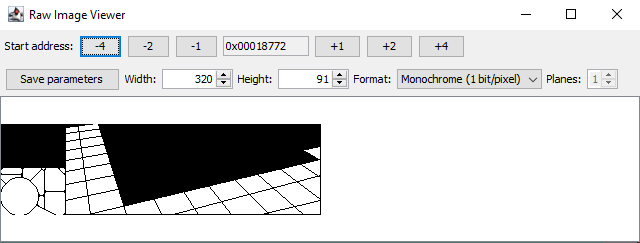
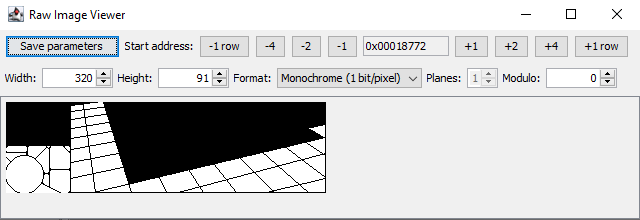
goto and modulo added

diff --git a/RawImageViewer.java b/RawImageViewer.java
@@ -13,7 +13,7 @@ import ghidra.program.model.mem.Memory;
 import javax.swing.*;
 import javax.swing.event.ChangeEvent;
 import java.awt.*;
-import java.awt.event.ActionEvent;
+import java.awt.event.*;
 import java.awt.image.BufferedImage;
 import java.util.List;
 import java.util.Arrays;
@@ -31,17 +31,28 @@ public class RawImageViewer extends GhidraScript {
     
     private static final String paramHeader = "$RAWIMAGE (do not modify or add comment after this line),";
     
+    private static JButton createSmallButton(String text) {
+        JButton button = new JButton(text);
+        Insets insets = button.getMargin();
+        button.setMargin(new Insets(insets.top, 8, insets.bottom, 8));
+        return button;
+    }
+    
+    
     private JLabel imageComp;
     private JTextField addressComp;
     private JSpinner planesComp;
     private Address start;
-    private int width, height, format, numPlanes;
+    private int width, height, format, numPlanes, modulo;
+    private int bytesPerRow;
+    private int clickedX, clickedY;
 
     private void setDefaultParameters() {
-        width = 16;
-        height = 16;
+        width = 320;
+        height = 200;
         format = 0;
         numPlanes = 1;
+        modulo = 0;
     }
 
     // loads the image parameters from the pre-comment.
@@ -63,11 +74,19 @@ public class RawImageViewer extends GhidraScript {
             int height = Integer.parseInt(params[2]);
             int format = Integer.parseInt(params[3]);
             int numPlanes = Integer.parseInt(params[4]);
-            if(width<0 || width>10000 || height<0 || height>10000
-                || format<0 || format>=formats.length || numPlanes<1 || numPlanes>8) {
+            int modulo = Integer.parseInt(params[5]);
+            if(width<0 || width>10000
+                || height<0 || height>10000
+                || format<0 || format>=formats.length
+                || numPlanes<1 || numPlanes>8
+                || modulo<0 || modulo>10000) {
                     throw new IllegalArgumentException();
             }
-            this.width = width; this.height = height; this.format = format; this.numPlanes = numPlanes;
+            this.width = width;
+            this.height = height;
+            this.format = format;
+            this.numPlanes = numPlanes;
+            this.modulo = modulo;
             return true;
         }
         catch (Exception e) {
@@ -77,7 +96,7 @@ public class RawImageViewer extends GhidraScript {
     
     // stores the image parameters in the pre-comment
     private void storeParametersInComment() {
-        String params = paramHeader + width + "," + height + "," + format + "," + numPlanes;
+        String params = paramHeader + width + "," + height + "," + format + "," + numPlanes + "," + modulo;
         String comment = getPreComment(start);
         if (comment == null) {
             comment = params;
@@ -115,31 +134,32 @@ public class RawImageViewer extends GhidraScript {
             switch(format) {
             case 0 -> {
                 // 1-bit monochrome (8 pixels per byte, MSB-first)
-                byte[] data = new byte[(int) Math.ceil((width * height) / 8.0)];
+                bytesPerRow = (width + 7) / 8 + modulo;                
+                byte[] data = new byte[bytesPerRow*height];
                 mem.getBytes(start, data);
+                
                 img = new BufferedImage(width, height, BufferedImage.TYPE_BYTE_BINARY);
                 for (int y = 0; y < height; y++) {
                     for (int x = 0; x < width; x++) {
-                        int byteIndex = (y * ((width + 7) / 8)) + (x / 8);
+                        int byteIndex = y * bytesPerRow + x / 8;
                         int bitIndex = 7 - (x % 8);
-                        if (byteIndex < data.length) {
-                            int bit = (data[byteIndex] >> bitIndex) & 1;
-                            int color = bit == 1 ? 0xFFFFFF : 0x000000;
-                            img.setRGB(x, y, color);
-                        }
+                        int bit = (data[byteIndex] >> bitIndex) & 1;
+                        int color = bit == 1 ? 0xFFFFFF : 0x000000;
+                        img.setRGB(x, y, color);
                     }
                 }
             }
             case 1 -> {
                 // 8-bit grayscale
-                byte[] data = new byte[width*height];
+                bytesPerRow = width + modulo;
+                byte[] data = new byte[bytesPerRow * height];
                 mem.getBytes(start, data);
-                img = new BufferedImage(width, height, BufferedImage.TYPE_BYTE_GRAY);
                 
-                int i = 0;
+                img = new BufferedImage(width, height, BufferedImage.TYPE_BYTE_GRAY);                
                 for (int y = 0; y < height; y++) {
-                    for (int x = 0; x < width && i < data.length; x++) {
-                        int val = data[i++] & 0xFF;
+                    for (int x = 0; x < width; x++) {
+                        int byteIndex = y * bytesPerRow + x;
+                        int val = data[byteIndex] & 0xFF;
                         int rgb = (val << 16) | (val << 8) | val;
                         img.setRGB(x, y, rgb);
                     }
@@ -147,16 +167,17 @@ public class RawImageViewer extends GhidraScript {
             }
             case 2 -> {
                 // 24-bit RGB
-                byte[] data = new byte[width*height*3];
+                bytesPerRow = width * 3 + modulo;
+                byte[] data = new byte[bytesPerRow * height];
                 mem.getBytes(start, data);
-                img = new BufferedImage(width, height, BufferedImage.TYPE_INT_RGB);
                 
-                int i = 0;
+                img = new BufferedImage(width, height, BufferedImage.TYPE_INT_RGB);           
                 for (int y = 0; y < height; y++) {
-                    for (int x = 0; x < width && i + 2 < data.length; x++) {
-                        int r = data[i++] & 0xFF;
-                        int g = data[i++] & 0xFF;
-                        int b = data[i++] & 0xFF;
+                    for (int x = 0; x < width; x++) {
+                        int byteIndex = y * bytesPerRow + x * 3;
+                        int r = data[byteIndex] & 0xFF;
+                        int g = data[byteIndex+1] & 0xFF;
+                        int b = data[byteIndex+2] & 0xFF;
                         int rgb = (r << 16) | (g << 8) | b;
                         img.setRGB(x, y, rgb);
                     }
@@ -164,17 +185,18 @@ public class RawImageViewer extends GhidraScript {
             }
             case 3 -> {
                 // 32-bit RGBA
-                byte[] data = new byte[width*height*4];
+                bytesPerRow = width * 4 + modulo;
+                byte[] data = new byte[bytesPerRow * height];
                 mem.getBytes(start, data);
-                img = new BufferedImage(width, height, BufferedImage.TYPE_INT_ARGB);
                 
-                int i = 0;
+                img = new BufferedImage(width, height, BufferedImage.TYPE_INT_ARGB);
                 for (int y = 0; y < height; y++) {
-                    for (int x = 0; x < width && i + 3 < data.length; x++) {
-                        int r = data[i++] & 0xFF;
-                        int g = data[i++] & 0xFF;
-                        int b = data[i++] & 0xFF;
-                        int a = data[i++] & 0xFF;
+                    for (int x = 0; x < width; x++) {
+                        int byteIndex = y * bytesPerRow + x * 4;
+                        int r = data[byteIndex] & 0xFF;
+                        int g = data[byteIndex+1] & 0xFF;
+                        int b = data[byteIndex+2] & 0xFF;
+                        int a = data[byteIndex+3] & 0xFF;
                         int rgba = (a << 24) | (r << 16) | (g << 8) | b;
                         img.setRGB(x, y, rgba);
                     }
@@ -182,10 +204,9 @@ public class RawImageViewer extends GhidraScript {
             }
             case 4 -> {
                 // Bitplane mode
-                int bytesPerPlane = (int) Math.ceil((width * height) / 8.0);
-                byte[] data = new byte[numPlanes * bytesPerPlane];
-                mem.getBytes(start, data);
-                img = new BufferedImage(width, height, BufferedImage.TYPE_INT_RGB);
+                bytesPerRow = (width + 7) / 8 + modulo;
+                byte[] data = new byte[bytesPerRow * height * numPlanes];
+                mem.getBytes(start, data);                
                 
                 // make a grayscale palette
                 int numColors = 1 << numPlanes;
@@ -195,13 +216,14 @@ public class RawImageViewer extends GhidraScript {
                     palette[i] = (val << 16) | (val << 8) | val;
                 }
                 
+                img = new BufferedImage(width, height, BufferedImage.TYPE_INT_RGB);
                 for (int y = 0; y < height; y++) {
                     for (int x = 0; x < width; x++) {
-                        int bitIndex = 7 - (x % 8);
-                        int byteOffset = (y * (width / 8)) + (x / 8);
+                        int byteOffset = y * bytesPerRow + x / 8;
+                        int bitIndex = 7 - (x % 8);                        
                         int colorIndex = 0;
                         for (int p = 0; p < numPlanes; p++) {
-                            int planeByteIndex = byteOffset + p * bytesPerPlane;
+                            int planeByteIndex = byteOffset + p * bytesPerRow * height;
                             int bit = (data[planeByteIndex] >> bitIndex) & 1;
                             colorIndex |= (bit << p);
                         }
@@ -230,7 +252,7 @@ public class RawImageViewer extends GhidraScript {
         
         if(!loadParametersFromComment()) {
             setDefaultParameters();
-        }
+        }       
         
         // Image window
         JFrame frame = new JFrame("Raw Image Viewer");
@@ -242,17 +264,27 @@ public class RawImageViewer extends GhidraScript {
         toolPanel1.setLayout(new FlowLayout(FlowLayout.LEFT));
         toolPanel.add(toolPanel1);
         
+        // save button
+        JButton saveButton = new JButton("Save parameters");
+        saveButton.addActionListener((ActionEvent e)->{
+            storeParametersInComment();
+        });
+        toolPanel1.add(saveButton);
+        
+        // the address buttons
+        
         toolPanel1.add(new JLabel("Start address:"));
         
-        ((JButton)(toolPanel1.add(new JButton("-4")))).addActionListener((ActionEvent e)->{
+        ((JButton)(toolPanel1.add(createSmallButton("-1 row")))).addActionListener((ActionEvent e)->{
+            setStartAddress(-bytesPerRow);
+        });
+        ((JButton)(toolPanel1.add(createSmallButton("-4")))).addActionListener((ActionEvent e)->{
             setStartAddress(-4);
         });
-        
-        ((JButton)(toolPanel1.add(new JButton("-2")))).addActionListener((ActionEvent e)->{
+        ((JButton)(toolPanel1.add(createSmallButton("-2")))).addActionListener((ActionEvent e)->{
             setStartAddress(-2);
         });
-        
-        ((JButton)(toolPanel1.add(new JButton("-1")))).addActionListener((ActionEvent e)->{
+        ((JButton)(toolPanel1.add(createSmallButton("-1")))).addActionListener((ActionEvent e)->{
             setStartAddress(-1);
         });
         
@@ -260,28 +292,22 @@ public class RawImageViewer extends GhidraScript {
         addressComp.setEditable(false);
         toolPanel1.add(addressComp);
         
-        ((JButton)(toolPanel1.add(new JButton("+1")))).addActionListener((ActionEvent e)->{
+        ((JButton)(toolPanel1.add(createSmallButton("+1")))).addActionListener((ActionEvent e)->{
             setStartAddress(1);
         });
-        
-        ((JButton)(toolPanel1.add(new JButton("+2")))).addActionListener((ActionEvent e)->{
+        ((JButton)(toolPanel1.add(createSmallButton("+2")))).addActionListener((ActionEvent e)->{
             setStartAddress(2);
         });
-        
-        ((JButton)(toolPanel1.add(new JButton("+4")))).addActionListener((ActionEvent e)->{
+        ((JButton)(toolPanel1.add(createSmallButton("+4")))).addActionListener((ActionEvent e)->{
             setStartAddress(4);
+        });
+        ((JButton)(toolPanel1.add(createSmallButton("+1 row")))).addActionListener((ActionEvent e)->{
+            setStartAddress(bytesPerRow);
         });
 
         JPanel toolPanel2 = new JPanel();
         toolPanel2.setLayout(new FlowLayout(FlowLayout.LEFT));
-        toolPanel.add(toolPanel2);
-        
-        // save button
-        JButton saveButton = new JButton("Save parameters");
-        saveButton.addActionListener((ActionEvent e)->{
-            storeParametersInComment();
-        });
-        toolPanel2.add(saveButton);
+        toolPanel.add(toolPanel2);       
         
         // width input field
         toolPanel2.add(new JLabel("Width:"));
@@ -326,10 +352,43 @@ public class RawImageViewer extends GhidraScript {
         planesComp.setEnabled(format==4);
         toolPanel2.add(planesComp);
         
+        // modulo input field
+        toolPanel2.add(new JLabel("Modulo:"));
+        SpinnerNumberModel moduloModel = new SpinnerNumberModel(modulo, 0, 10000, 1);
+        JSpinner moduloComp = new JSpinner(moduloModel);
+        moduloComp.addChangeListener((ChangeEvent e)->{
+            modulo = (int) moduloComp.getValue();
+            onImageChange();
+        });
+        toolPanel2.add(moduloComp);
+        
         frame.getContentPane().add(toolPanel, BorderLayout.NORTH);
         
+        // the image component and its context menu
         imageComp = new JLabel();
-        JScrollPane scrollPane = new JScrollPane(imageComp);
+        imageComp.addMouseListener(new MouseAdapter() {
+            public void mousePressed(MouseEvent e) {
+                // remember where the user clicked
+                clickedX = e.getX();
+                clickedY = e.getY();
+            }
+        });        
+        JPopupMenu menu = new JPopupMenu();
+        JMenuItem gotoItem = new JMenuItem("Go to this row");
+        gotoItem.addActionListener((ActionEvent e)->{
+            setStartAddress(clickedY * bytesPerRow);
+        });
+        menu.add(gotoItem);
+        imageComp.setComponentPopupMenu(menu);
+        
+        // we put in the label showing the image in another panel
+        // to prevent the label filling the entire scroll pane
+        // (so that the popup menu only opens when clicking the image)
+        JPanel imageCompPanel = new JPanel();
+        imageCompPanel.setLayout(new FlowLayout(FlowLayout.LEFT));
+        imageCompPanel.add(imageComp);
+        
+        JScrollPane scrollPane = new JScrollPane(imageCompPanel);
         scrollPane.setPreferredSize(new Dimension(640, 400));
         frame.getContentPane().add(scrollPane, BorderLayout.CENTER);
         

diff --git a/README.md b/README.md
@@ -1,4 +1,6 @@
-This is a script for Ghidra that allows to view images embedded in a binary file.
+This is a script for Ghidra that allows to view images embedded in a binary file directly from Ghidra.
+
+![screenshot](screenshot.png)
 
 As usual, this software comes without any warranty or guarantees. It is experimental and incomplete. Use it at your own risk.
 
@@ -8,7 +10,7 @@ That's very easy and just takes a few seconds. It's a script, which means you ju
 1. open the Code Browser window with one of your projects in Ghidra,
 1. open the Script Manager window (with the green "Play" button in the toolbar or in the "Window" menu),
 1. click on the "Create new script" button in the toolbar of the Script Manager window,
-1. add the content of the RawImageViewer.java file as a new Java script.
+1. add the content of the RawImageViewer.java file as a new Java file.
 
 The script appears in the script category "Visualization" (and in the "Tool" menu of the Code Browser if you have ticked the  checkbox in the Script Manager).
 
@@ -16,25 +18,29 @@ The script appears in the script category "Visualization" (and in the "Tool" men
 
 In the Code Browser, go to the address where the image data is located. Run the script. A window opens that shows the data at the current address as an image.
 
-![screenshot](screenshot.png)
+GUI elements:
+- The "Save parameters" button saves the current parameters in the precomment at the current address. When you later run the script again at the same address, it can read the parameters from the precomment, provided you have not modified the line containing the parameters or added anything *after* that line in the comment (adding text before that line is fine, though).
+- With the "-1 row", "-4", "-2",... buttons you can move the start address of the image by one row, by 4 bytes, by 2 bytes, etc. in both directions. 
+- In the "Width" and "Height" input fields, you can specify the size of the image in pixels.
+- Different image formats are supported. Note that for the "Monochrome" and "Bitplanes" mode, the number of bytes read per row equals Roundup(Width/8) plus any modulo (see below).
+- The input field for the number of planes is only enabled when the "Bitplanes" format is selected. In this format, the bitplanes providing the bits of the pixel values are stored consecutively in memory.
+- The "Modulo" field specifies how many bytes are skipped after each row.
 
-With the "-4", "-2",... buttons you can move the start address of the image. With the other buttons and input fields, you can set the parameters of the image. Note that the number of planes can only be changed when the "Bitplanes" format is selected.
 
-The "Save parameters" button saves the current parameters as a precomment at the current address. When you later run the script again at the same address, it can read the parameters from the comment, provided you have not modified the comment line containing the parameters or added anything *after* that line.
+A right click on the image opens a menu with one possible action: setting the start address of the image to the address corresponding to the clicked row.
+
 
 # Missing features (soon...)
 
-- A "modulo" field where you can specify how many bytes should be skipped after each row of the image.
+- A way to set a color palette for the "Grayscale" format and the "Bitplanes" format. In the current version everything is gray for those two formats.
 
-- A way to set a palette for the "Grayscale" format and the "Bitplanes" format. In the current version everything is gray for those two formats.
+- Support for the "interleaved bitplanes" format, as popular on the Amiga.
 
-- An "interleaved bitplanes" format, as popular on the Amiga.
+- Support for 16-bit formats
 
-- A 16-bit format
+- A zoom function. 320x200 images from old games are very small on modern screens.
 
-- A zoom function because 320x200 images from old games are very small on modern screens.
-
-- An export function to save the image as a png file.
+- An export function to save the image as a png or bmp file.
 
 
 
